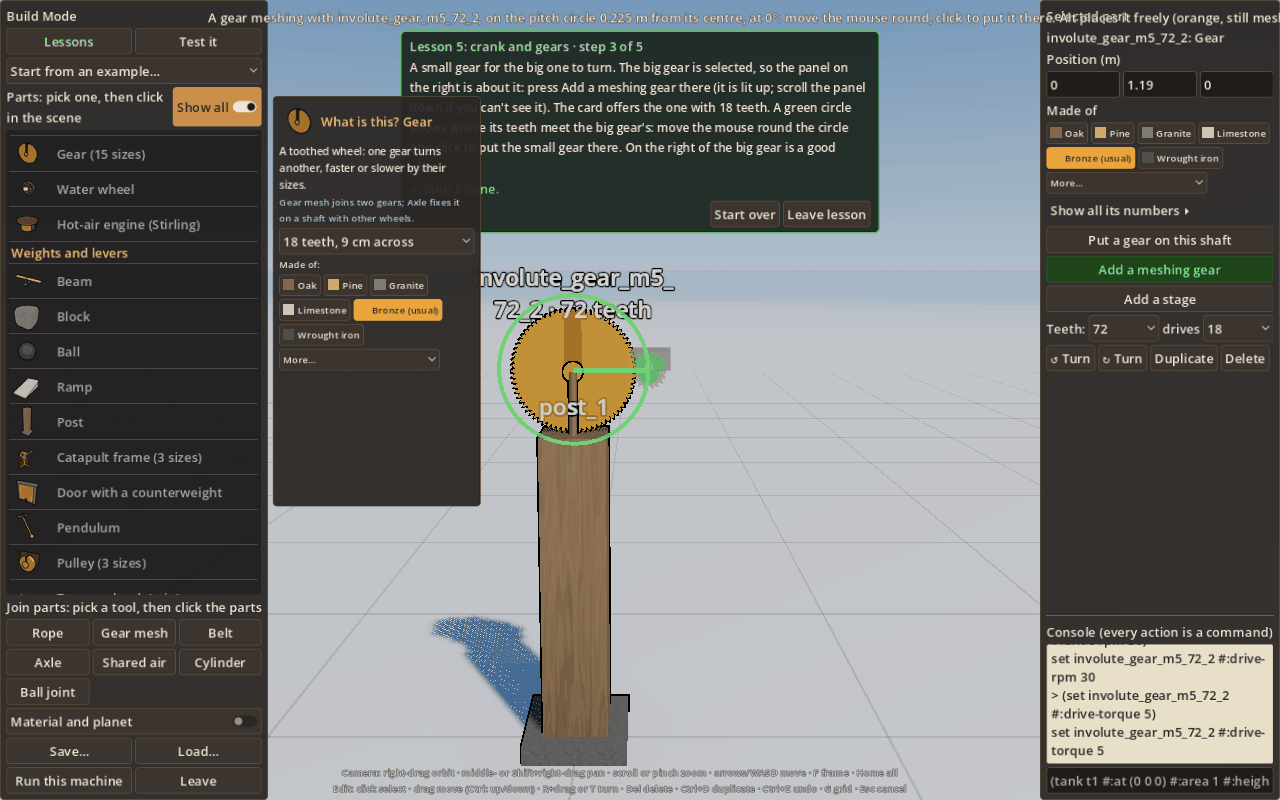
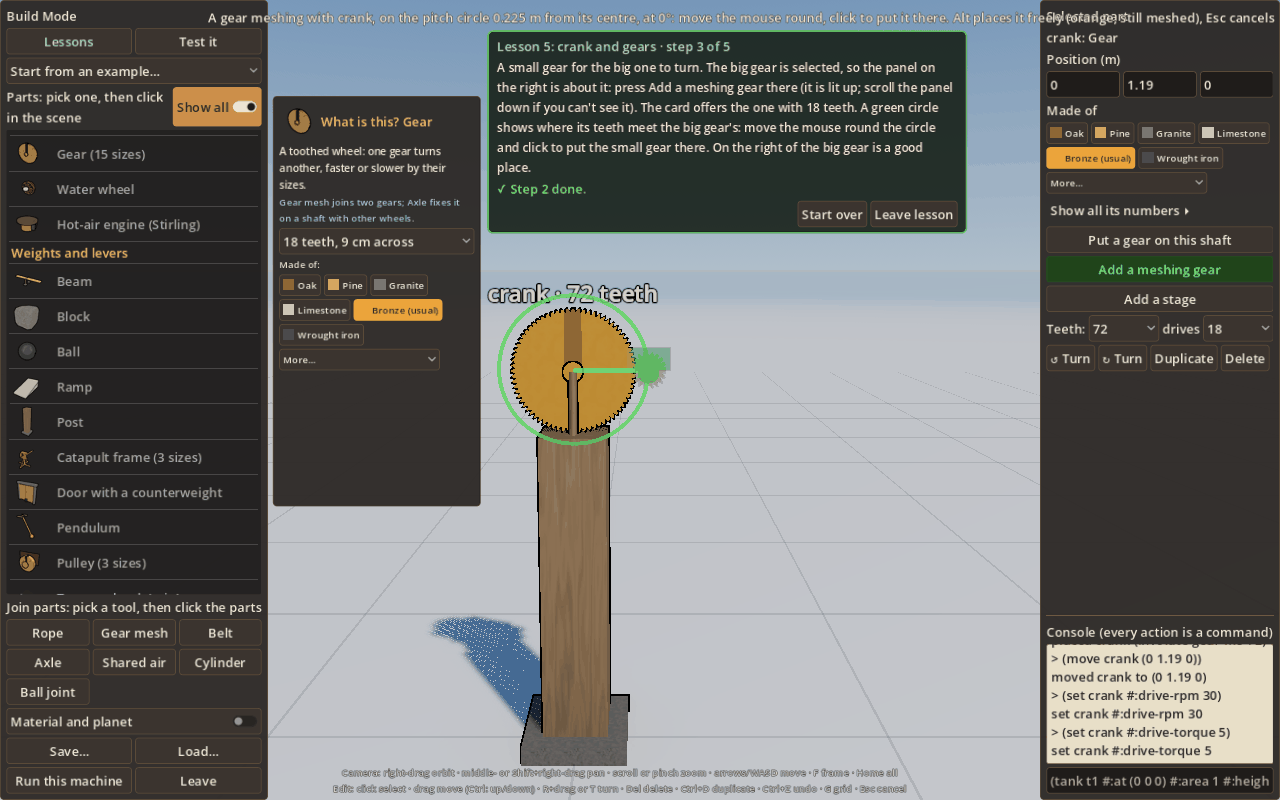
Tutorial screen polish: parts named by entry (gear_2) and, in a lesson, by their role as placed (crank -> third: 2:1); only the selected part's name in a lesson; the lesson panel clear of the part card; no tall clock plate behind small gears high up; tested gears named by teeth; shots retaken

diff --git a/game/scripts/BuildMode.cs b/game/scripts/BuildMode.cs
@@ -1050,6 +1050,7 @@ public partial class BuildMode : Node3D
         UpdateCandidates();
         UpdatePortLabels();
         var lit = _candidates.Select(c => c.PartId).ToHashSet();
+        ShowPartNames();
         foreach (var id in _session.Document.Parts.Keys)
         {
             var overlay = id == _selectedId ? SelectedOverlay : _linkPicks.Contains(id) ? PickedOverlay : id == _hoverId ? HoverOverlay
@@ -1057,10 +1058,24 @@ public partial class BuildMode : Node3D
                 : lit.Contains(id) ? CandidateOverlay
                 : _link is { } tool && tool is not (LinkGestures.Kind.Rope or LinkGestures.Kind.Joint) && LinkTakes(tool, id) ? CandidateOverlay
                 : id == LessonPartId ? LessonPartOverlay : null;
+            // in a lesson only the selected part's name is shown: the names of gears meshed side by side pile up over them, and the
+            // lesson's words and the train's ratio label already say which is which (BuildMode.Lessons.cs)
             foreach (var root in NodesOf(id))
                 foreach (var g in Descendants(root).OfType<GeometryInstance3D>())
                     if (g is not Label3D) g.MaterialOverlay = overlay;
         }
+    }
+
+    /// <summary>
+    /// In a lesson only the selected part's name is shown: the names of gears meshed side by side pile up over them, and the lesson's
+    /// words and the train's ratio label already say which is which. A label belongs to the part its "part_id" says (an axle's label
+    /// is drawn after the parts, with its first wheel's id).
+    /// </summary>
+    private void ShowPartNames()
+    {
+        if (_preview is null) return;
+        foreach (var label in Descendants(_preview).OfType<Label3D>())
+            if (label.HasMeta("part_id")) label.Visible = _lesson is null || label.GetMeta("part_id").AsString() == _selectedId;
     }
 
     private static StandardMaterial3D Overlay(Color c) => new()
@@ -2013,11 +2028,10 @@ public partial class BuildMode : Node3D
                 + (clear > 0 ? $"the sails' disc clears the post by {F(clear)} m" : $"the sails' disc crosses the post ({F(clear)} m)"));
         }
         var item = _palette.First(p => p.Id == paletteId);
-        string id = $"{paletteId.Replace('-', '_')}_{_serial++}";
-        while (_session.Document.Parts.ContainsKey(id)) id = $"{paletteId.Replace('-', '_')}_{_serial++}";
         string head = item.Catalogue is { } entry ? entry.PartKind : item.PrimitiveKind!;
         string catalogueArg = item.Catalogue is not null ? $" #:catalogue {paletteId}" : "";
         string key = EntryKeyOf(paletteId);
+        string id = NewPartId(key.Replace('-', '_'), paletteId, _placeMaterial ?? UsualMaterial(key));   // "gear_2" by its entry, not its size; in a lesson, its role
         var at = _ghost.Position + new Vector3(0, Lift(key), 0);
         string extra = string.Concat(ExtraProps(key).Select(p => $" #:{p.Key} {F(p.Value)}"));
         if (RunCommand($"({head} {id} #:at {Xyz(at)}{catalogueArg} #:material {_placeMaterial ?? UsualMaterial(key)}{extra})"))
@@ -2025,6 +2039,23 @@ public partial class BuildMode : Node3D
             TrySnapAllPorts(id);
             if (!keepPlacing) { CancelPlacing(); Select(id); }
         }
+    }
+
+    /// <summary>
+    /// A new part's id: the name the lesson's step would remember it by when it would count ("crank", BuildMode.Lessons.cs), so its label
+    /// and the train's ratio read in the lesson's words; else <paramref name="baseName"/>_N (the palette's entry, "gear_2", "post_1").
+    /// </summary>
+    private string NewPartId(string baseName, string paletteId, string material)
+    {
+        if (_lesson is not null && _palette.FirstOrDefault(p => p.Id == paletteId) is { Id: not null } item)
+        {
+            var probe = item.Catalogue is { } entry ? PartTemplates.Create(entry, "probe", new Vec3(0, 0, 0), material)
+                                                    : PartTemplates.Create(item.PrimitiveKind!, "probe", new Vec3(0, 0, 0), material);
+            if (_lesson.RoleFor(probe) is { } role && !_session.Document.HasName(role)) return role;
+        }
+        string id = $"{baseName}_{_serial++}";
+        while (_session.Document.HasName(id)) id = $"{baseName}_{_serial++}";
+        return id;
     }
 
     // -------------------------------------------------------- edit actions

diff --git a/src/HeroicInventions.Sim/Editor/Lessons.cs b/src/HeroicInventions.Sim/Editor/Lessons.cs
@@ -450,6 +450,21 @@ public sealed class LessonRunner(Lesson lesson, MaterialLibrary materials)
         return (false, [], Nudge);
     }
 
+    /// <summary>
+    /// The name the current step would remember a new part by, when that part would count (its kind, shape, size, teeth, catalogue part
+    /// and material: not where it is), so the editor can give it that id as it is placed ("crank", not "gear_2"): what a person reads on
+    /// its label and on the train's ratio ("crank -> third: 2:1"). Null when the step remembers nothing new, already knows that name, or
+    /// the part would not count. Naming it so never changes what counts: the check still decides.
+    /// </summary>
+    public string? RoleFor(PartSpec part)
+    {
+        if (Finished || Current?.Check is not { Type: "place" or "mesh", As: { } role, Part: null } c || Roles.ContainsKey(role)) return null;
+        bool shape = c.Shape is null || part.Props.GetValueOrDefault("shape") is SSymbol sh && sh.Name == c.Shape;
+        bool category = c.Category is null || materials.TryGet(part.Material, out var m) && m.Category.ToString().Equals(c.Category, StringComparison.OrdinalIgnoreCase);
+        bool size = c.Radius is not { } want || Math.Abs(part.Number("radius", 0) - want) < 1e-6;
+        return (c.Kind is null || part.Kind == c.Kind) && shape && category && size && TeethOk(c, part) && CatalogueOk(c, part) ? role : null;
+    }
+
     /// <summary>Whether a part has the teeth a check asks for (any, when it names none).</summary>
     private static bool TeethOk(LessonCheck c, PartSpec x) => c.Teeth is not { } want || Math.Abs(x.Number("teeth", 0) - want) < 1e-6;
 

diff --git a/game/scripts/BuildMode.Lessons.cs b/game/scripts/BuildMode.Lessons.cs
@@ -306,9 +306,34 @@ public partial class BuildMode
         _lessonShownStep = run.Index;
     }
 
+    private float _lessonShift;   // how far right the lesson panel stands to keep clear of the part's card, px
+
+    /// <summary>
+    /// The lesson panel moved right of the part's card while the card is up (the card stands by the parts list, under the panel's left
+    /// end): both read, as far as the right-hand panel leaves room; back to the middle when the card goes.
+    /// </summary>
+    private void KeepLessonPanelClear()
+    {
+        if (!_lessonPanel.Visible) return;
+        var panel = _lessonPanel.GetGlobalRect();
+        float left = panel.Position.X - _lessonShift, right = panel.End.X - _lessonShift;   // where it stands unshifted
+        float want = 0;
+        if (_card.Visible)
+        {
+            var card = _card.GetGlobalRect();
+            if (card.End.X > left && card.Position.Y < panel.End.Y)
+                want = Mathf.Min(card.End.X + 8 - left, Mathf.Max(0, _rightPanel.GetGlobalRect().Position.X - 8 - right));
+        }
+        if (Mathf.IsEqualApprox(want, _lessonShift)) return;
+        _lessonShift = want;
+        _lessonPanel.OffsetLeft = -300 + want;
+        _lessonPanel.OffsetRight = 300 + want;
+    }
+
     /// <summary>Called each frame: the lesson pressing Test itself for its final check.</summary>
     private void LessonProcess(double delta)
     {
+        KeepLessonPanelClear();
         if (_lessonAutoTestIn is not { } left) return;
         left -= delta;
         if (left > 0) { _lessonAutoTestIn = left; return; }

diff --git a/tests/HeroicInventions.Sim.Tests/LessonFiveTests.cs b/tests/HeroicInventions.Sim.Tests/LessonFiveTests.cs
@@ -113,6 +113,22 @@ public class LessonFiveTests
     }
 
     [Fact]
+    public void ANewPartIsNamedByTheRoleItWouldTakeWhenItWouldCount()
+    {
+        var s = NewSession();
+        var run = new LessonRunner(Gears(), Materials);
+        PartSpec Gear(int teeth) => PartTemplates.Create(CatalogueReader.Parse(Catalogue).First(e => e.Id == $"involute-gear-m5-{teeth}"), "probe", new Vec3(0, 0, 0), "bronze");
+        Assert.Equal("post", run.RoleFor(PartTemplates.Create("post", "probe", new Vec3(0, 0, 0), "oak")));
+        Assert.Null(run.RoleFor(PartTemplates.Create("block", "probe", new Vec3(0, 0, 0), "oak")));   // not what the step counts
+        Do(s, run, "(post post #:at (0 0 0) #:material oak)");
+        Assert.Null(run.RoleFor(Gear(36)));   // the step wants the 72
+        Assert.Equal("crank", run.RoleFor(Gear(72)));
+        Do(s, run, "(wheel crank #:at (0 1.18 0) #:catalogue involute-gear-m5-72 #:material bronze)");
+        Assert.Equal("crank", run.Roles["crank"]);
+        Assert.Equal("second", run.RoleFor(Gear(18)));   // a mesh step names its gear too
+    }
+
+    [Fact]
     public void ALostMeshTakesTheLessonBackToItsStep()
     {
         var s = NewSession();

diff --git a/game/scripts/BuildMode.Test.cs b/game/scripts/BuildMode.Test.cs
@@ -193,12 +193,14 @@ public partial class BuildMode
         }
     }
 
-    /// <summary>A wheel as a person would name it: "bronze pulley", "oak drum", "waterwheel".</summary>
+    /// <summary>A wheel as a person would name it: "bronze pulley", "bronze gear", "oak drum", "waterwheel".</summary>
     private string WheelName(string id)
     {
         var part = _session.Document.Parts[id];
-        string shape = part.Props.GetValueOrDefault("catalogue") is SSymbol c ? System.Text.RegularExpressions.Regex.Replace(c.Name, @"-\d.*$", "") : part.Kind;
+        // its entry in the parts list, as a person picked it ("gear", "pulley", "cart wheel"), not its catalogue size ("involute-gear-m5-72")
+        string shape = part.Props.GetValueOrDefault("catalogue") is SSymbol c ? EntryKeyOf(c.Name).Replace('-', ' ') : part.Kind;
         string material = _materials.TryGet(part.Material, out var m) ? m.Name.ToLowerInvariant() : part.Material;
+        if (part.Kind == "wheel" && shape == "gear" && part.Number("teeth", 0) is > 0 and var teeth) return $"{material} {teeth:0}-tooth gear";   // three gears told apart
         return part.Kind == "wheel" ? $"{material} {shape}" : shape;
     }
 

diff --git a/game/scripts/MachineView.cs b/game/scripts/MachineView.cs
@@ -1414,8 +1414,17 @@ public partial class MachineView : Node3D
         }
 
         // small wheels on z axles stand on a clockmaker's plate, unless they are a driven
-        // train's (#113), working machinery that stands on posts like any other axle
+        // train's (#113), working machinery that stands on posts like any other axle. A plate is
+        // clockwork's case: about as tall as the wheels on it are wide. Small gears high up (the
+        // tutorial's 18 and 36 beside a 72 on a 1 m post) would hang on a tall dark board reaching
+        // down to the ground, which reads as a mystery board, not a plate: they stand on posts too.
         var small = groups.Where(g => g.Radius < 0.1f && Mathf.Abs(g.Axis.Z) > 0.999f && !g.Driven).ToList();
+        if (small.Count > 0)
+        {
+            float span = small.Max(g => g.Back.X + g.Radius) - small.Min(g => g.Back.X - g.Radius);
+            float height = small.Max(g => g.Back.Y + g.Radius);
+            if (height > 3 * Mathf.Max(span, 0.1f)) small.Clear();
+        }
         if (small.Count > 0)
         {
             _building = small[0].Id;   // the plate is shared: the first small wheel owns it

diff --git a/game/scripts/BuildMode.Mesh.cs b/game/scripts/BuildMode.Mesh.cs
@@ -182,8 +182,7 @@ public partial class BuildMode
     {
         if (_meshRing is not { } r || _ghost is not { Visible: true }) return;
         if (!_session.Document.Parts.ContainsKey(r.Anchor)) { CancelPlacing(); return; }
-        string id = $"wheel_{_serial++}";
-        while (_session.Document.HasName(id)) id = $"wheel_{_serial++}";
+        string id = NewPartId("wheel", paletteId, _placeMaterial ?? UsualMaterial("gear"));   // in a lesson, its role ("second")
         var at = _ghost.Position;
         bool onRing = _ghostOnRing;
         float angle = _ringAngle;

diff --git a/game/scripts/BuildMode.Shaft.cs b/game/scripts/BuildMode.Shaft.cs
@@ -116,8 +116,7 @@ public partial class BuildMode
     {
         if (_shaft is not { } s || _ghost is not { Visible: true }) return;
         if (!_session.Document.Parts.ContainsKey(s.Anchor)) { CancelPlacing(); return; }
-        string id = $"wheel_{_serial++}";
-        while (_session.Document.HasName(id)) id = $"wheel_{_serial++}";
+        string id = NewPartId("wheel", paletteId, _placeMaterial ?? UsualMaterial("gear"));   // in a lesson, its role
         var at = _ghost.Position;
         var rel = at - V(s.Point);
         float along = rel.Dot(V(s.Behind));

diff --git a/docs/conventions.md b/docs/conventions.md
@@ -67,7 +67,7 @@ Environment switches (all `HEROIC_*`):
 | `SLEEP=<wake>` | sleep at load until the machine's named wake. A script step does it later: `sleep WAKE [live\|paused]` or `sleep until T.F above\|below V [limit S] [live\|paused]` (#207) |
 | `INPUT` steps `join A B`, `joinclick A [N|list]`, `joinrightclick A`, `joinlist N`, `joinbutton`, `fps N` (#218, #224, #225) | `join LABEL.PART[.PORT] LABEL.PART[.PORT]` joins two placed machines' parts as the Join machines gesture does, anywhere in a script (after a build, with the parts tens of metres apart): the button's `SetJoining`, the two picks a click on each part makes (`Main.Pick`, the same rules and the same `[links] joined:` line), then joining off. A bad name, a part with no drawing, a malformed end or a join the rules refuse prints `join: ...` and ends the run with **exit 1**, even if a `quit` follows. `joinclick A` is one real mouse click on a part where the camera draws it, with joining on (it fails if the part is off screen). The pick rule is the join tool's (#225): nested pick boxes, the smaller wins (the gears inside the sails' box, the bank inside its crate's); boxes that only overlap, nearest first; a second click on the same spot or a right-click offers a list of the parts under it (`pick list at ...` in the log). `joinclick A N` clicks A, clicks again and takes item N (from 1) of that list; `joinclick A list` clicks A and, if another part was picked, clicks again and takes A from the list (fails if A is not there); `joinrightclick A` offers the list by a right-click and `joinlist N` takes item N of the list open. `fps N` caps the frame rate (`wait` counts frames and `hold` seconds, so a drive is repeatable at one rate only); `joinbutton` prints the button's label (`Join machines` in the rover game, `(J)` elsewhere). `wheel X Y N` (the mouse wheel) and `type TEXT` (into a focused field) are there for the same gui routes. `tools/route-gui.sh` plays the route with them |
 | `INPUT` steps `build WORD ...` (building plan, phase 0; `Main.Build.cs`, `BuildMode.ScriptStep`) | In a world, `build new [X Z]`, `build edit LABEL`, `build done`, `build list` and `build (COMMAND ...)` (every `#:at (x y z)` taken from the build's spot) are the world's own. Any other `build WORD ...` is one of build mode's own scripted steps, the words `EDITOR_INPUT` takes, run in the world's script and its director step files: `build palette NAME` (an entry, `gear`, or one size, `involute-gear-m5-72`, as a click in the list), `build palette-drag NAME X Y`, `build palette-click NAME` (a real click on the list's entry; when the starter list hasn't it, a real click on Show all first), `build look YAW PITCH DIST X Y Z` (build mode's camera, degrees and metres, its pivot taken from the build's spot as click-at's points are), `build click-part ID` (a real click where the camera draws the part's middle), `build click-port PART.PORT`, `build click-at X Y Z` and `build drag-to ID X Y Z` (world points taken from the build's spot, as `#:at` is), `build select ID`, `build link KIND` (rope, mesh, belt, arbor, sealedair, cylinder, joint: a join tool, as its button), `build log` (a `[BuildMode] state: ... selected=.. placing=.. link=..` line), `build candidates`, `build palette-list`, `build show-all on\|off`, `build cmd ...` (a console command as typed: no origin), `build save PATH`, `build test`, `build picklist N`, `build gear-on TEETH [hover]`, `build mesh-with TEETH [hover]` (below), `build preset NAME SIZE` (a real click on the button of the placing part's card nearest SIZE: a post's `1 m`, `3 m`, `10.6 m`, the last the route's windmill tower, 0.6 m square; `build preset post 10` takes 10.6), `build hover-at X Y Z [alt]` (the mouse moved there, no click: a placing ghost follows). A word build mode doesn't know prints `[build] unknown build word: W`. Build mode's click picks as the world's join tool does (#225, `PickBoxes.Choose`): nested boxes, the smaller wins (a gear inside the sails' box), the log saying `X lies inside Y's box and is the smaller: it takes the click`; a second click on the same spot in the same view offers the parts under it, nearest first (`pick list at ...`), and `build picklist N` takes item N (from 1). The free ghost still rests on the nearest box, except a windmill's over a post (building plan, phase 1): the post goes under its gear train, as the route builds it, 1.45 m behind the sails and 0.45 m aside (turned with the sails' #:facing-deg), the hub at the post's top plus the nave's radius (`MachineView.WindmillHubRadius`, 0.45 m): hub - post foot = (-0.45, 11.05, 1.45) for a 10.6 m post, logged as `the windmill's hub on POST's top: ... the sails' disc clears the post by D m`; Alt held while placing turns the snap off (Shift still keeps placing; `build click-at X Y Z alt`, `build hover-at X Y Z alt`); the post holds nothing in the sim. A selected windmill or wheel has "Put a gear on this shaft" in its inspector (building plan, phase 2; `BuildMode.Shaft.cs`, `Sim/Editor/ShaftSlots.cs`): it starts placing a gear, the size from the gear's card, its ghost held on the part's axle line (a windmill's windshaft back from the hub, opposite its #:facing-deg; a wheel's own axis, stepped the way a windmill on its axle runs back) where the mouse's ray passes nearest (5 cm steps with grid snap, onto the default within 3 cm), the axle drawn in cyan over everything while placing and while the mouse is on the button; the default is 1.3 m behind a bare windmill's hub (the route's first wheel; phase 1's post stands under a train that starts there), else 0.1 m behind the hindmost wheel on the axle (arbors joined through common parts are one axle). A click makes `(wheel wheel_N #:at ... #:catalogue ...)`, a `(set wheel_N #:KEY V)` for each of #:axis, #:tilt-deg, #:heading-deg that differs from a wheel's own (a catalogue wheel's command takes only #:at and #:material), then `(arbor P wheel_N)`, P the selected part, or for a wheel already on an arbor that arbor's lead (`ShaftSlots.PartnerOf`: one lead for the whole axle, as the view's gear train counts arbors); the log says `[BuildMode] arbor: P, wheel_N` and `gear on X's shaft: wheel_N (...) at (...), T m behind X along its axle, on P's arbor`; Alt places it where the free ghost is, still joined (`placed freely (Alt): D m off the axle line`); Shift keeps placing on the same axle. `build gear-on TEETH [hover]` picks the module-5 gear of that many teeth on the card, presses the selected part's button (a real click) and places it at the default spot as a click there does, or with `hover` leaves the ghost waiting for `build hover-at`/`build click-at`. `build log` also lists the document's meshes and arbors (`meshes=wheel_1+wheel_2,wheel_1+wheel_9~0.4/0.225 arbors=sails+wheel_1,...`; `~HAVE/WANT` marks a mesh off its centre distance, metres). A selected wheel also has "Add a meshing gear" (building plan, phase 3; `BuildMode.Mesh.cs`, `Sim/Editor/MeshSlots.cs`): it starts placing a gear (the card's size), its ghost held on the pitch circle round the wheel, in the wheel's plane, at the centre distance `LinkGestures.MeshCentreDistance` (the sum of the pitch radii, m (zA + zB) / 2 at one module: 0.225 m for a module-5 72 and 18; worked out again when another size is picked on the card), its angle where the mouse's ray meets the plane (15° steps with grid snap), 0° = world +x laid into the plane (the route's pinions stand +x of their wheels), 90° up for an axle along z; ghost, circle and spoke drawn green over everything. Alt frees it within the plane (any distance, no snap), drawn orange; a gear of another module than the wheel's is drawn orange on the circle. A click makes `(wheel wheel_N #:at ... #:catalogue ...)`, the `(set ...)` turning it parallel to the wheel, then `(mesh W wheel_N)` (W the selected wheel; BuildSession rephases the teeth), selects the new gear and logs `mesh with W: wheel_N (...) at (...), (dx dy dz) from W, on the pitch circle at A°` (or `placed freely (Alt)`) and `mesh: W, wheel_N: centre distance D m (pitch radii ...), they stand H m apart: on it` (or `drawn orange (WHY)`). A mesh is drawn amber when it is true by the machine view's own rule (`LinkGestures.MeshFit`, the one the machine view runs by: both gears, one module, within 2 % of the centre distance measured across the first gear's axle), else orange and thicker, however it was made (the Gear mesh tool logs the same `mesh:` line); build mode never refuses one, and the `mesh:` line says what it will do when it runs (`it will run loose (...)`, `not touching (...)`, `jammed (...)`), as the Alt ghost's status line does. The machine view runs every mesh as it stands (owner, 2026-10-11; `LinkGestures.MeshContact`, `MachineView.BuildGearTrains`): within 2 % true, as cut; farther but with the tip circles (#:tip-radius, else pitch radius + one module) still overlapping, loose: it turns its partner at the tooth ratio; tips apart, not touching: no link, each gear turns on its own; nearer than true by more than 2 %, or teeth of two sizes (two modules, or a plain rim) whose tips overlap, jammed: both arbors held (the hinge limited to where it stands, a crank's drive let go; a driven train also held by the world in the momentum exchange, so a windmill on it stops), and a cranked train with a jammed gear in it stalls whole. Each such mesh is logged once (`[gears] wheel_1+wheel_3: not touching (400.0 mm apart; to mesh 225.0 mm): ...`) and drawn in the run view, a line between the axles and `not touching` in orange or `jammed` in red-orange over it. Anything else that stops the gear trains being built (a loop of meshes that disagrees, a wheel off its windmill's axle) leaves them unbuilt, a red mark and `gear train unfinished` tag over the first meshed gear and an `[gears] ... unfinished` line, and the rest of the machine is built as usual. The live ratio and the sim's `TrainOf` take no step across a mesh that is not touching or jammed. `build mesh-with TEETH [hover]` is gear-on's twin for the selected wheel's "Add a meshing gear" (default: the circle at 0°). The live ratio (`Sim/Editor/TrainRatio.cs`): for each prime mover (windmill, water wheel, jet wheel, Stirling engine) whose arbors and meshes cross at least one mesh, the ratio to the train's last gear from the tooth counts in lowest terms (`256:1`; `1:4` geared down; belts left out), the last gear the one most meshes from the mover, then the fastest, then the last reached (so a 72 put on a pinion's arbor is the last gear until its pinion is meshed); shown on the status line (`Gear train sails -> pinion-e: 256:1`), as a label over the last gear, and logged when it changes (`[BuildMode] train: sails -> wheel_8, ratio 256:1 (4 meshes)`). A selected windmill or wheel also has "Add a stage" (building plan, phase 4; `BuildMode.Stage.cs`, `Sim/Editor/StageSlots.cs`): "Put a gear on this shaft" and "Add a meshing gear" in one click, at their defaults: a wheel on the selected part's axle (1.3 m behind a bare windmill's hub, else 0.1 m behind the hindmost wheel on the axle) and a pinion on its pitch circle at 0°, the sizes from the row under the button (`Teeth: 72 drives 18` to start, the route's 4:1; any gear sizes; kept for the next stage). It is one command, `(begin (wheel ...) (set ...) (arbor P W) (wheel ...) (set ...) (mesh W P'))`, so one Ctrl+Z takes the whole stage back; then the pinion is selected (the next click adds the next stage on its axle), the camera frames the pair, and the log says `stage on X: W (...) at (...), T m behind X on P's arbor; P' (...) at (...), (dx dy dz) from W, meshing it (centre distance D m); one undo takes the stage back` and the `mesh:` line. The click ends any placing first (as Esc does); a stage has no placing of its own (Ctrl+Z is the way back). Four clicks on the sails are the route's train, 256:1. `build add-stage [WHEEL PINION]` picks the sizes in the row (module-5 teeth, or catalogue ids; as they are when left out) and presses the selected part's button by a real click, once. `(begin CMD ...)` (`BuildSession`) is any group of commands as one edit: one undo, and if one command fails none of them is kept (the document, the undo and the redo as before it); undo, redo, load and save don't go in one; its results are logged a line each. `racket/heroic/tests/build-script-test.rkt` |
-| `LESSONS_DIR=<dir>`, `EDITOR_INPUT` steps `lesson ID`, `lesson-resume ID`, `lesson-leave`, `lesson-menu` (#166; tutorial plan, slice A) | Lessons are data, `game/lessons/NN-name.lesson`, in file order in the Lessons menu; files from `05` on come under the heading "Build five machines" (`lesson-menu` prints the menu, a heading as `== text`). The format is in `Lessons.cs`'s header; slice A's fields: a place check's `(teeth N)`, `(catalogue ID)` and `(on-shaft ROLE)`; the `(check mesh (with ROLE) (teeth N) (as ROLE))` check (a new gear meshed with a remembered one); the outcome `(check turned (part ROLE) (rpm N) (within W))` (the Test's end speed, either way) and `{ROLE.rpm}` in text; a step's `(select ROLE)` (that part selected as the step begins, lit while it isn't) and `(highlight button:mesh_with)` / `button:gear_on` / `button:add_stage` / `"button:preset:LABEL"` (the inspector's or the card's button lit, logged `[Lesson] step N lit button KIND:PART`); `(variant ID)` sets the card's size for its own entry, from the list or a button. A cranked wheel (`#:drive-rpm` not 0) is a train's mover for the live ratio. Every outcome's number is worked in the lesson's header before the steps and cited against a trace, as `02-pulley.lesson` does. `racket/heroic/tests/lesson-test.rkt`; `tools/lessons-gui.sh` plays lesson 5 in a hidden window for shots |
+| `LESSONS_DIR=<dir>`, `EDITOR_INPUT` steps `lesson ID`, `lesson-resume ID`, `lesson-leave`, `lesson-menu` (#166; tutorial plan, slice A) | Lessons are data, `game/lessons/NN-name.lesson`, in file order in the Lessons menu; files from `05` on come under the heading "Build five machines" (`lesson-menu` prints the menu, a heading as `== text`). The format is in `Lessons.cs`'s header; slice A's fields: a place check's `(teeth N)`, `(catalogue ID)` and `(on-shaft ROLE)`; the `(check mesh (with ROLE) (teeth N) (as ROLE))` check (a new gear meshed with a remembered one); the outcome `(check turned (part ROLE) (rpm N) (within W))` (the Test's end speed, either way) and `{ROLE.rpm}` in text; a step's `(select ROLE)` (that part selected as the step begins, lit while it isn't) and `(highlight button:mesh_with)` / `button:gear_on` / `button:add_stage` / `"button:preset:LABEL"` (the inspector's or the card's button lit, logged `[Lesson] step N lit button KIND:PART`); `(variant ID)` sets the card's size for its own entry, from the list or a button. A cranked wheel (`#:drive-rpm` not 0) is a train's mover for the live ratio. A placed part's id is its parts-list entry and a number (`gear_2`, `pulley_3`, not its catalogue size); in a lesson, a part that would count for the step takes the step's `(as ROLE)` as its id when it is placed (`LessonRunner.RoleFor`, no renaming afterwards), so labels and the ratio read `crank -> third: 2:1`; only the selected part's name label shows in a lesson, and the lesson panel moves right of the part card while the card is up. Every outcome's number is worked in the lesson's header before the steps and cited against a trace, as `02-pulley.lesson` does. `racket/heroic/tests/lesson-test.rkt`; `tools/lessons-gui.sh` plays lesson 5 in a hidden window for shots |
 | `SLEEP_PHYSICS=1/0` | a sleep keeps the physics engine running (default for Jolt-driven machines under 7,200 s) or pauses it |
 | `MARKERS=1/0`, `INPUT` steps `marker ..`, `markers on\|off`, `map ..` (#235-#239) | the cargo's rough areas (a disc of 6 m (the owner's choice) round each crate, its centre offset 1 to 2 m by a hash of the crate's label, no depth: owner decision on #240; `RoughArea` in `src/HeroicInventions.Sim/Game/Markers.cs`) in the world and on the map, and the bearing line in the Driving section: on by default (View ▸ Cargo Markers, remembered in `settings.cfg`, section `[markers]`; an older `markers.cfg` value is read once, copied across and left alone); `HEROIC_MARKERS` overrides, a scripted run shows them. Keys: **M** the navigation map (north up = -z, pan, wheel zoom, Home recentres, Esc closes; the game runs on), **T** chooses the next cargo area for the bearing line. The map draws each soil in the ground's own colour and its left panel is the ground key (#243: only the map's soils; the swatches are `TerrainView.SoilColour`, one rule `SoilLook.Drawn`); the Driving section has a `ground here: ...` line, printed by the step `rover ground`, and `map print` prints each key entry (`[map] key SOIL: swatch ground map name note`). `marker` prints each area (centre, radius, the crate's place worked back from it, offset) and the chosen one's distance, bearing, relative angle; `marker place X Z` puts an exact test marker and chooses it; `marker next`, `marker choose ID`, `marker clear`; `map open\|close\|print\|follow\|zoom MPP\|centre X Z [MPP]` (`map print` lists each marker's world place, its map place and the place read back). `racket/heroic/tests/markers-test.rkt` |
 | `SAVES_DIR=<dir>` | where saves go instead of the player's folder; a scripted run (`QUIT_AFTER_SIM_SECONDS`, `INPUT`) with none writes no autosave and no rover log. The rover log (#217) is `<scene>.rover-log.txt` there (or in `user://saves` for a player), one line appended as it is made. `godothost.rkt` sets a temporary one |
